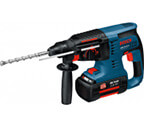
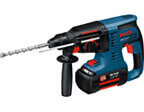
1. Все картинки в каталоге подогнал к одинаковой высоте (вырезал по высоте), чтобы не скакали на карточках. 2. Сделал декоративную разметку каталога популярных товаров (на главной странице).

diff --git a/index.html b/index.html
@@ -137,43 +137,53 @@
           </div>
           <ul class="popular-products-list">
             <li class="popular-products-item">
-              <h3>Перфоратор BOSCH BFG 9000</h3>
+              <div class="action">
+                <a class="button buy" href="#">Купить</a>
+                <a class="button bookmark" href="#">В закладки</a>
+              </div>
               <p>
-                <img src="img/product-bosch-bfg-9000.jpg" width="184" height="164" alt="Перфоратор BOSCH BFG 9000">
+                <img src="img/product-bosch-bfg-9000.jpg" width="184" height="112" alt="Перфоратор BOSCH BFG 9000">
               </p>
-              <span class="old-price">32500 Р.</span>
-              <span class="new-price">25500 Р.</span> 
-              <a class="button buy" href="#">Купить</a>
-              <a class="button bookmark" href="#">В закладки</a>
+              <div class="title">Перфоратор BOSCH BFG 9000</div>
+              <div class="old-price">32500 Р.</div>
+              <div class="new-price">25500 Р.</div> 
             </li>
             <li class="popular-products-item">
-              <h3>Перфоратор BOSCH BFG 3000</h3>
+              <div class="action">
+                <a class="button buy" href="#">Купить</a>
+                <a class="button bookmark" href="#">В закладки</a>
+              </div>
               <p>
                 <img src="img/product-bosch-bfg-3000.jpg" width="127" height="112" alt="Перфоратор BOSCH BFG 3000">
               </p>
-              <span class="old-price">22500 Р.</span>
-              <span class="new-price">15500 Р.</span>
-              <a class="button buy" href="#">Купить</a>
-              <a class="button bookmark" href="#">В закладки</a>
+              <div class="title">Перфоратор BOSCH BFG 3000</div>
+              <div class="old-price">22500 Р.</div>
+              <div class="new-price">15500 Р.</div>
             </li>
             <li class="popular-products-item">
-              <h3>Перфоратор BOSCH BFG 6000</h3>
+              <div class="action">
+                <a class="button buy" href="#">Купить</a>
+                <a class="button bookmark" href="#">В закладки</a>
+              </div>
               <p>
-                <img src="img/product-bosch-bfg-6000.jpg" width="144" height="128" alt="Перфоратор BOSCH BFG 6000">
+                <img src="img/product-bosch-bfg-6000.jpg" width="144" height="112" alt="Перфоратор BOSCH BFG 6000">
               </p>
-              <span class="old-price">30500 Р.</span>
-              <span class="new-price">25500 Р.</span>
-              <a class="button buy" href="#">Купить</a>
-              <a class="button bookmark" href="#">В закладки</a>
+              <div class="title">Перфоратор BOSCH BFG 6000</div>
+              <div class="old-price">30500 Р.</div>
+              <div class="new-price">25500 Р.</div>
             </li>
-            <li class="popular-products-item new">
-              <h3>Перфоратор BOSCH BFG 2000</h3>
+            <li class="popular-products-item">
+              <div class="flag flag-new">Новинка</div>
+              <div class="action">
+                <a class="button buy" href="#">Купить</a>
+                <a class="button bookmark" href="#">В закладки</a>
+              </div>
               <p>
                 <img src="img/product-bosch-bfg-2000.jpg" width="127" height="112" alt="Перфоратор BOSCH BFG 2000">
               </p>
-              <span class="new-price">12500 Р.</span> 
-              <a class="button buy" href="#">Купить</a>
-              <a class="button bookmark" href="#">В закладки</a>
+              <div class="title">Перфоратор BOSCH BFG 2000</div>
+              <div class="old-price"></div>
+              <div class="new-price">12500 Р.</div> 
             </li>
           </ul>
         </section>

diff --git a/css/style.css b/css/style.css
@@ -707,6 +707,11 @@ input[type="radio"].visually-hidden {
 }
 
 .popular-products-item {
+  display: flex;
+  flex-wrap: wrap;
+  flex-direction: column;
+  justify-content: flex-start;
+  position: relative;
   width: 218px;
   min-height: 314px;
   margin-right: 20px;
@@ -714,17 +719,45 @@ input[type="radio"].visually-hidden {
   border-width: 1px;
   border-style: solid;
   border-color: #eaeaea;
+  text-align: center;
+}
+
+.popular-products-item:hover {
+  box-shadow: 0 10px 50px #eaeaea;
+}
+
+.popular-products-item .flag {
+  position:absolute;
+  top:-1px;
+  right:-1px;
+  width:60px;
+  height:60px;
+  text-indent:-1000px;
+  overflow:hidden;
+   z-index:20;
+}
+.popular-products-item .flag-new {
+  background: url("../img/new-flag.png") no-repeat 0 0;
 }
 
 .popular-products-item:nth-child(4n) {
   margin-right: 0;
 }
 
-.popular-products-item h3 {
+.popular-products-item img {
+  margin: 0;
+  margin-top: 10px;
+}
+
+.popular-products-item .title {
   font-family: "PT Sans", Helvetica, sans-serif;
   font-weight: bold;
   font-size: 18px;
   line-height: 20px;
+  padding: 0 30px;
+  margin: 0;
+  margin-top: 10px;
+  margin-bottom: 15px;
 }
 
 .old-price,
@@ -736,17 +769,59 @@ input[type="radio"].visually-hidden {
 }
 
 .old-price {
+  min-height: 18px;
   color: #a9a9a9;
   text-decoration: line-through;
+  margin: 0;
+  margin-bottom: 10px;
 }
 
 .new-price {
+  position: relative;
+  width: 80px;
+  margin: 0px auto;
+  margin-bottom: 20px;
+  padding: 10px 35px;
   color: #ffffff;
   background-color: #ee3643;
+  border-radius:3px;
+}
+
+.new-price:after {
+  content: "";
+  position: absolute;
+  top: 0;
+  right: -20px;
+  width: 0;
+  height: 0;
+  border: 19px solid #ffffff;
+  border-left-color:#ee3643;
 }
 
 /* Переопределим стили для кнопок "Купить" и "В закладки"*/ 
-.button.buy {
+.popular-products-item .action {
+  position: absolute;
+  top: 0;
+  left: 0;
+  width: 218px;
+  height: 88px;
+  padding: 40px 0;
+  background-color:#ffffff;
+  z-index: 10;
+}
+
+.action .buy,
+.action .bookmark {
+    display: block;
+    margin: 0 auto;
+    margin-bottom: 7px;
+    border-radius: 3px;
+}
+
+.button.buy { 
+  position: relative;
+  width: 135px;
+  padding: 10px 0;
   background-color: #63a63e;
   border-bottom-style: solid;
   border-bottom-width: 3px;
@@ -762,7 +837,29 @@ input[type="radio"].visually-hidden {
   border-bottom-color: #518534;
 }
 
+.button.buy::before {
+  content: "";
+
+  position: absolute;
+  top: 10px;
+  left: 12px;
+  width: 15px;
+  height: 15px;
+
+  background-image: url("../img/icon-cart.svg");
+  background-repeat: no-repeat;
+  background-position: 0 0;
+  opacity: 0.3;
+}
+
+.button.buy:hover::before,
+.button.buy:active::before {
+  opacity: 1;
+}
+
 .button.bookmark {
+  width: 129px;
+  padding: 8px 0;
   background-color: #ffffff;
   color: #32425c;
   border-style: solid;
@@ -778,6 +875,14 @@ input[type="radio"].visually-hidden {
   color: rgba(50, 66, 92, 0.3);
   border-color: rgba(50, 66, 92, 0.3);
 }
+
+.popular-products-item .action{
+  display:none;
+}
+.popular-products-item:hover .action{
+  display:block;
+}
+
 /* Популярные производители */
 .popular-manufacturers {
   /* Не 65px, т.е. есть нижний маргин у каждого элемента списка */
